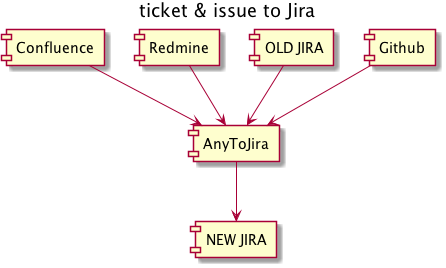
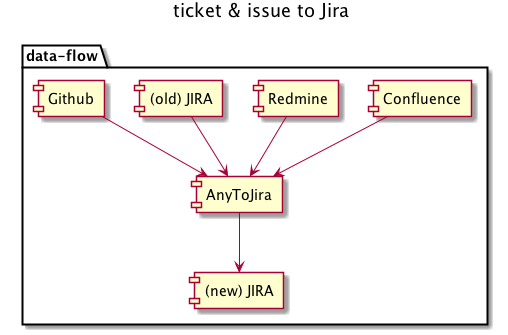
add component image

diff --git a/readme.md b/readme.md
@@ -4,6 +4,10 @@ The script migrating from Confluence table, JIRA ticket, Redmine issue, and Gith
 
 ![about](./docs/about.png)
 
+# Component
+
+![component](./docs/component.png)
+
 # Install
 
 Execute this command after setting ruby and bundler.
